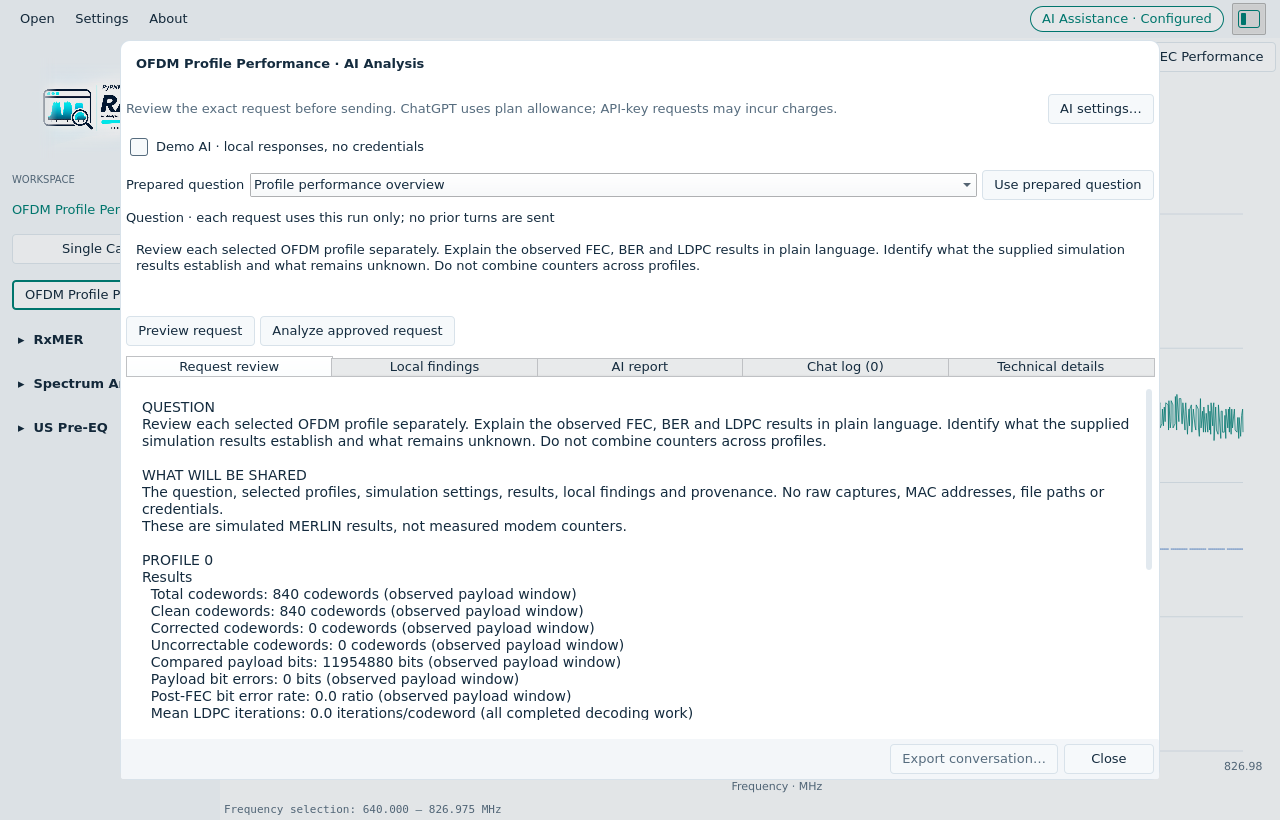
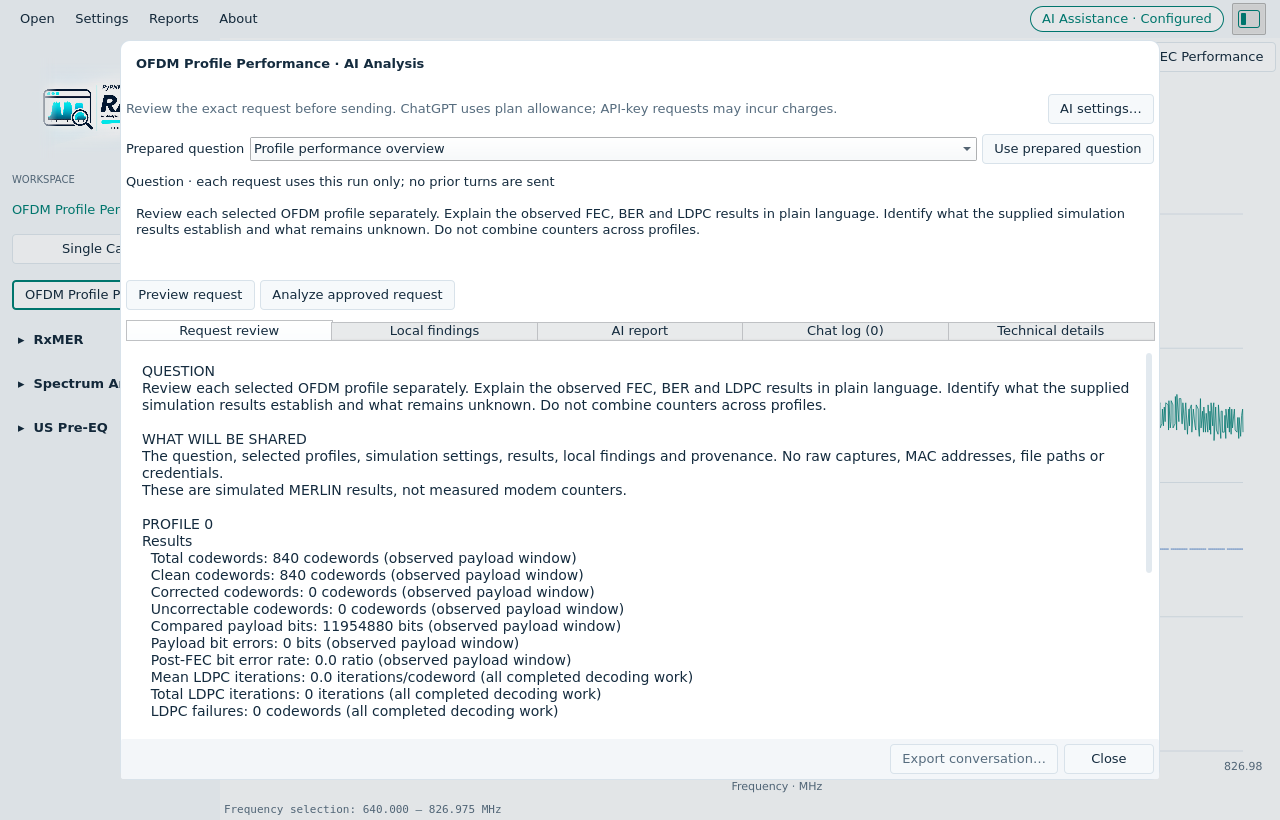
BugFix: Hide AI demo controls during normal use - Show demo controls only when demo mode is enabled - Preserve demo labels and backend launch restrictions - Update AI documentation and both theme screenshots - Tests: Pass 198 QML and 6 Qt adapter tests - Tests: Pass native build, Clippy and preview 

diff --git a/apps/qt/tests/tst_ai_analysis.qml b/apps/qt/tests/tst_ai_analysis.qml
@@ -51,6 +51,7 @@ RenderTestCase {
     function test_no_automatic_submission_preview_then_explicit_approval() {
         dialog.open()
         compare(service.submissions,0)
+        verify(!findChild(dialog,"aiDemoMode").visible)
         verify(!findChild(dialog,"aiAnalyzeApproved").enabled)
         const preview=findChild(dialog,"aiCreatePreview")
         verify(waitForFrame(preview));mouseClick(preview)
@@ -63,7 +64,9 @@ RenderTestCase {
     function test_demo_mode_clearly_labels_and_invalidates_live_preview() {
         dialog.open();service.prepare_analysis("","")
         const toggle=findChild(dialog,"aiDemoMode")
-        verify(waitForFrame(toggle));mouseClick(toggle)
+        verify(!toggle.visible)
+        service.choose_demo_mode(true)
+        verify(toggle.visible)
         verify(service.demo_mode);verify(!service.request_ready)
         compare(dialog.title,"OFDM Profile Performance · Demo AI")
         compare(findChild(dialog,"aiAnalyzeApproved").text,"Run approved demo")

diff --git a/apps/qt/qml/AiAnalysisDialog.qml b/apps/qt/qml/AiAnalysisDialog.qml
@@ -58,6 +58,7 @@ Dialog {
         }
         ThemeCheckBox {
             objectName: "aiDemoMode"
+            visible: !!dialog.service.demo_mode
             theme: dialog.theme
             text: "Demo AI · local responses, no credentials"
             checked: !!dialog.service.demo_mode

diff --git a/docs/ui/ai-assistance.md b/docs/ui/ai-assistance.md
@@ -32,10 +32,10 @@ or a genuine AI assessment. To ask this chat for an actual interpretation, expor
 the conversation and share the JSON here yourself.
 
 `--ai-demo` locks the session to local demo responses. Restart without it for
-live AI. Normal sessions also offer a **Demo AI** checkbox in the analysis popup;
-switching modes invalidates approval and never sends a request automatically.
-Existing session credentials are not erased by that checkbox. Normal release
-update checks are independent of AI and may still contact GitHub.
+live AI. Demo controls and wording appear only while AI demo mode is enabled.
+Normal sessions do not show an option to turn it on. Demo mode never sends an AI
+request. Normal release update checks are independent of AI and may still contact
+GitHub.
 
 <picture>
   <source media="(prefers-color-scheme: dark)" srcset="images/ai/ofdm-ai-demo-dark.png">

diff --git a/docs/development/ai-assistance.md b/docs/development/ai-assistance.md
@@ -531,3 +531,10 @@ using synthetic secrets. No user key or personal vault was used. Windows/macOS
 runtime access and OS-specific capacity limits still need native verification;
 backend refusal must remain an error, never a fallback file. This slice introduces
 no new scientific calculations, provider inference or automatic refresh.
+
+### Demo UI visibility
+
+Normal AI dialogs hide the Demo AI checkbox. Demo labels and controls appear only
+when the Rust service reports demo mode enabled (for example, `--ai-demo`). The
+existing launch lock and provider guards remain authoritative. Presentation tests
+cover hidden controls in normal mode and visible labels in enabled demo mode.
